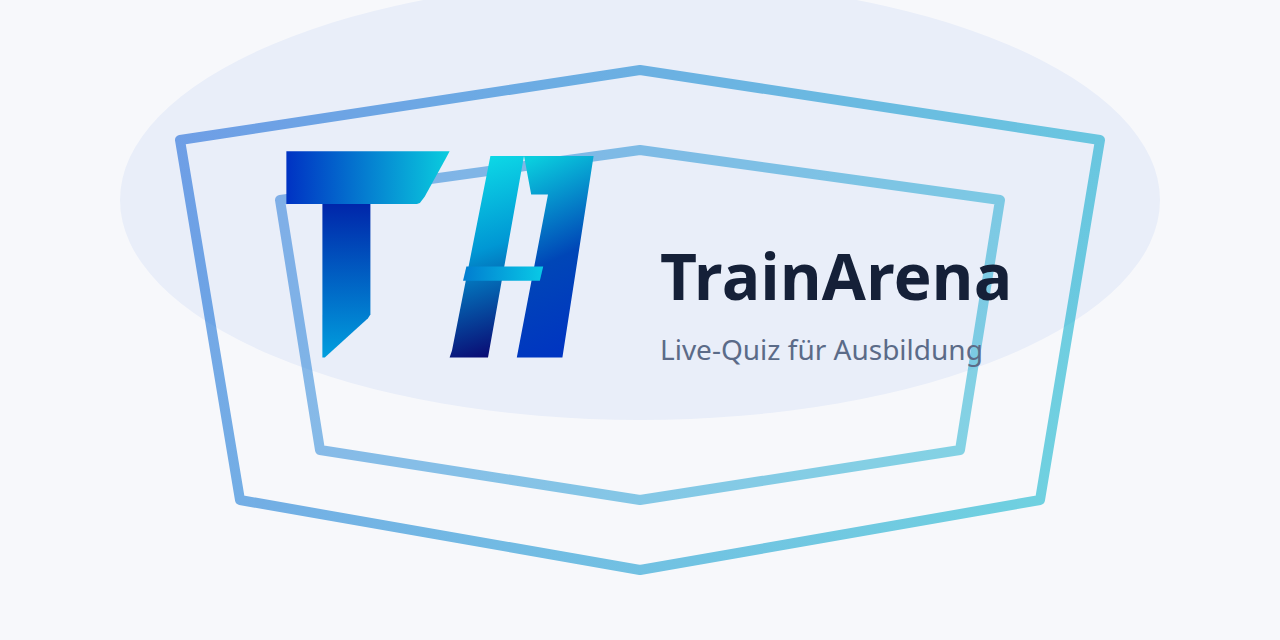
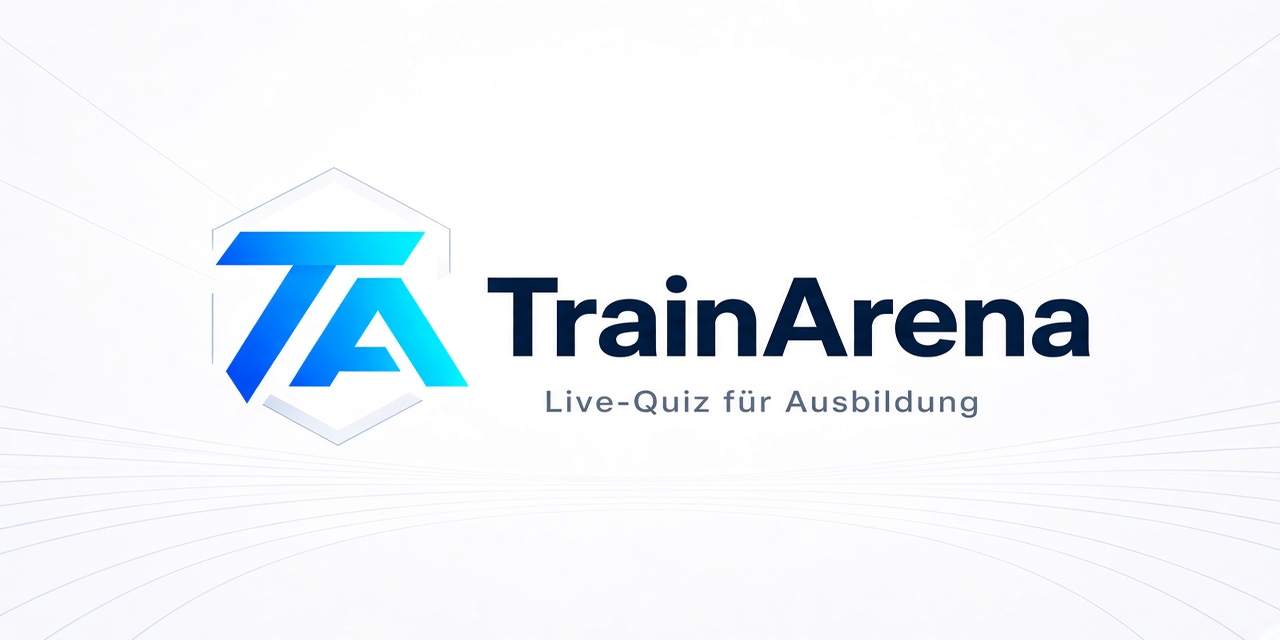
fix(brand): replace assets with draft-matching Konzept A/D look
Use production PNG mark/banner aligned to the approved concept drafts,
refresh italic ribbon SVG siblings, wire headers to logo-icon.png, and
cover the PNG mark in BrandAssetsTests.

Changed region(s): [[0.125, 0.0938, 0.875, 0.9062]]

diff --git a/src/TrainArena/wwwroot/player/index.html b/src/TrainArena/wwwroot/player/index.html
@@ -11,7 +11,7 @@
 <body>
   <main class="player">
     <div class="brand-row">
-      <img class="brand-mark" src="/assets/brand/logo-icon.svg" width="64" height="46" alt="" />
+      <img class="brand-mark" src="/assets/brand/logo-icon.png" width="64" height="64" alt="" />
       <h1>TrainArena</h1>
     </div>
     <p class="tagline">Spieler</p>

diff --git a/src/TrainArena/wwwroot/css/host.css b/src/TrainArena/wwwroot/css/host.css
@@ -595,7 +595,8 @@ a { color: var(--accent); }
 
 .brand-mark {
   width: 2.75rem;
-  height: auto;
+  height: 2.75rem;
+  object-fit: contain;
   flex-shrink: 0;
   display: block;
   filter: drop-shadow(0 8px 16px rgba(10, 92, 214, 0.28));

diff --git a/src/TrainArena/wwwroot/player/player.css b/src/TrainArena/wwwroot/player/player.css
@@ -532,7 +532,8 @@ button.secondary {
 
 .brand-mark {
   width: 2.75rem;
-  height: auto;
+  height: 2.75rem;
+  object-fit: contain;
   flex-shrink: 0;
   display: block;
   filter: drop-shadow(0 8px 16px rgba(10, 92, 214, 0.28));

diff --git a/tests/TrainArena.Tests/BrandAssetsTests.cs b/tests/TrainArena.Tests/BrandAssetsTests.cs
@@ -65,6 +65,22 @@ public class BrandAssetsTests : IClassFixture<TrainArenaWebAppFactory>
     }
 
     [Fact]
+    public void LogoIconPng_ExistsOnDisk()
+    {
+        var path = Path.Combine(RepoRoot(), "src", "TrainArena", "wwwroot", "assets", "brand", "logo-icon.png");
+        Assert.True(File.Exists(path), $"Missing {path}");
+        Assert.True(new FileInfo(path).Length > 1000);
+    }
+
+    [Fact]
+    public async Task LogoIconPng_IsServed()
+    {
+        var res = await _client.GetAsync("/assets/brand/logo-icon.png");
+        Assert.Equal(HttpStatusCode.OK, res.StatusCode);
+        Assert.Contains("png", res.Content.Headers.ContentType?.MediaType ?? "", StringComparison.OrdinalIgnoreCase);
+    }
+
+    [Fact]
     public void FaviconPng_ExistsOnDisk()
     {
         var path = Path.Combine(RepoRoot(), "src", "TrainArena", "wwwroot", "assets", "brand", "favicon.png");

diff --git a/docs/brand/README.md b/docs/brand/README.md
@@ -1,7 +1,15 @@
 # TrainArena Brand
 
-- `../src` app icon: `src/TrainArena/wwwroot/assets/brand/logo-icon.svg` (Konzept A — TA monogram)
-- Banner: `banner.svg` / `banner.png` (Konzept D — arena frame + wordmark). Re-rasterize PNG via inline-SVG HTML + headless Chrome (external `<img src=svg>` can race before paint).
-- Spec: `../superpowers/specs/2026-10-08-trainarena-banner-logo-design.md`
+Hybrid-Set aligned with approved drafts (Konzept A icon, Konzept D banner):
+
+| Asset | Path | Role |
+|-------|------|------|
+| App mark (PNG) | `src/TrainArena/wwwroot/assets/brand/logo-icon.png` | Host/Editor/Player header (matches draft look) |
+| App mark (SVG) | `src/TrainArena/wwwroot/assets/brand/logo-icon.svg` | Vector sibling / SVG favicon |
+| Favicon | `src/TrainArena/wwwroot/assets/brand/favicon.png` | 32×32 tab icon |
+| Banner PNG | `banner.png` | README hero (canonical raster) |
+| Banner SVG | `banner.svg` | Editable vector companion |
+
+Spec: `../superpowers/specs/2026-10-08-trainarena-banner-logo-design.md`
 
 Primary accents: `#0032C3` → `#0ACDDE` (sibling to thomasmenzl.de). Wordmark: **TrainArena**. Tagline: *Live-Quiz für Ausbildung*.
